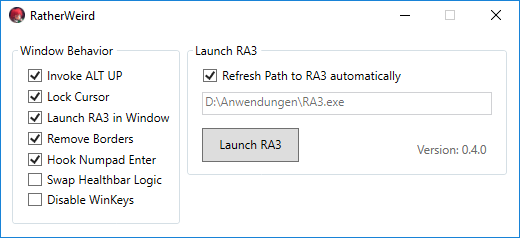
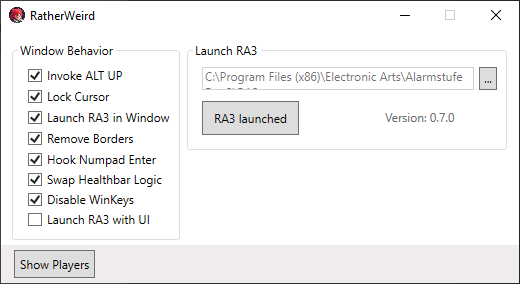
Make sure to add version and image

Changed region(s): [[0.0, 0.0, 1.0, 1.0], [0.8, 0.5882, 0.9538, 0.6471]]

diff --git a/RatherWeird/RatherWeird/Constants.cs b/RatherWeird/RatherWeird/Constants.cs
@@ -13,7 +13,7 @@ namespace RatherWeird
         public static readonly string SettingsFile = "settings.xml";
         public static readonly string Ra3ProcessName = "ra3_1.12.game";
         public static readonly string Logfile = "ratherweird_log.txt";
-        public static readonly string ApplicationVersion = "0.7.0-pre.1";
+        public static readonly string ApplicationVersion = "0.7.0";
         public static readonly string CncOnlinePlayerInfo = "https://info.server.cnc-online.net/";
 
         #endregion
